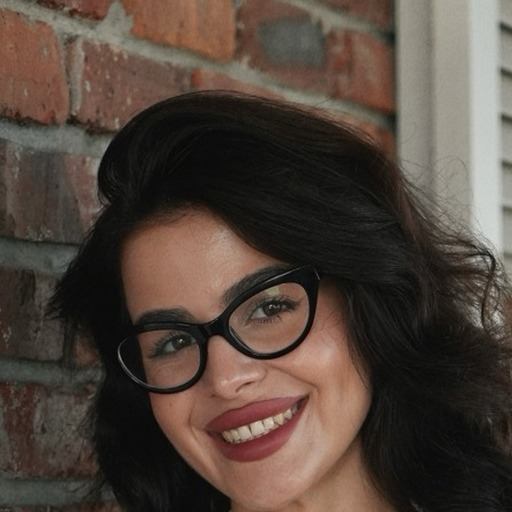
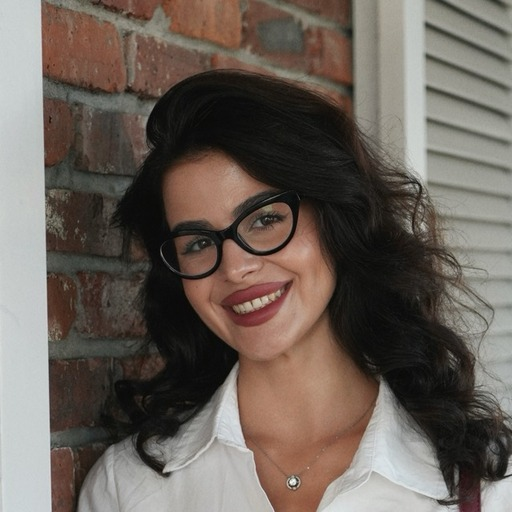
Клуб: на первом экране улыбка, рамка выше, заголовок больше не ложится на лицо

diff --git a/prodvizhenie-review.html b/prodvizhenie-review.html
@@ -138,9 +138,9 @@ nav .go:hover{color:var(--ink);background:var(--sun2)}
    Раньше был отрицательный отступ, из-за которого фото съедало низ букв. */
 .hero .bleed.big{line-height:.95}
 .hero .stage{position:relative;max-width:1220px;margin:clamp(10px,1.4vw,26px) auto 0;padding:0 22px}
-.hero .frame{position:relative;aspect-ratio:16/8.4;overflow:hidden;background:var(--ink);
+.hero .frame{position:relative;aspect-ratio:16/10.5;overflow:hidden;background:var(--ink);
   border-radius:4px;box-shadow:0 24px 70px rgba(23,19,19,.24)}
-.hero .frame img{width:100%;height:100%;object-fit:cover;object-position:52% 30%;animation:kb 22s ease-out forwards}
+.hero .frame img{width:100%;height:100%;object-fit:cover;object-position:60% 26%;animation:kb 22s ease-out forwards}
 @keyframes kb{from{transform:scale(1.1)}to{transform:none}}
 .hero .cap{position:absolute;left:0;right:0;bottom:0;padding:44px 44px 36px;color:#FDF7EE;z-index:3;
   background:linear-gradient(to top,rgba(20,16,16,.9),rgba(20,16,16,.34) 52%,transparent);
@@ -420,7 +420,7 @@ footer a{color:rgba(242,234,217,.72)}
 @media(max-width:1000px){
   section{padding:70px 0}
   .hero .below{grid-template-columns:1fr 1fr}
-  .hero .frame{aspect-ratio:4/3.2}
+  .hero .frame{aspect-ratio:4/3.4}
   .hero .cap{padding:32px 26px 26px}
   .notes,.res,.grs{grid-template-columns:1fr 1fr}
   .wl{grid-template-columns:1fr;gap:0}
@@ -459,7 +459,7 @@ footer a{color:rgba(242,234,217,.72)}
   .hero .top{margin-bottom:12px}
   .hero .cl{font-size:21px}
   .hero .frame{aspect-ratio:auto;display:block}
-  .hero .frame img{height:auto;aspect-ratio:1/.84;object-position:56% 22%;display:block}
+  .hero .frame img{height:auto;aspect-ratio:1/.92;object-position:57% 24%;display:block}
   /* Подложка под снимком была почти чёрная и весила слишком много.
      Теперь тёмно-синий из палитры сайта, тот же, что в шапке и в «Для кого». */
   .hero .cap{position:static;background:linear-gradient(180deg,#2A3A56 0%,var(--navy) 100%);

diff --git a/prodvizhenie.html b/prodvizhenie.html
@@ -136,9 +136,9 @@ nav .go:hover{color:var(--ink);background:var(--sun2)}
    Раньше был отрицательный отступ, из-за которого фото съедало низ букв. */
 .hero .bleed.big{line-height:.95}
 .hero .stage{position:relative;max-width:1220px;margin:clamp(10px,1.4vw,26px) auto 0;padding:0 22px}
-.hero .frame{position:relative;aspect-ratio:16/8.4;overflow:hidden;background:var(--ink);
+.hero .frame{position:relative;aspect-ratio:16/10.5;overflow:hidden;background:var(--ink);
   border-radius:4px;box-shadow:0 24px 70px rgba(23,19,19,.24)}
-.hero .frame img{width:100%;height:100%;object-fit:cover;object-position:52% 30%;animation:kb 22s ease-out forwards}
+.hero .frame img{width:100%;height:100%;object-fit:cover;object-position:60% 26%;animation:kb 22s ease-out forwards}
 @keyframes kb{from{transform:scale(1.1)}to{transform:none}}
 .hero .cap{position:absolute;left:0;right:0;bottom:0;padding:44px 44px 36px;color:#FDF7EE;z-index:3;
   background:linear-gradient(to top,rgba(20,16,16,.9),rgba(20,16,16,.34) 52%,transparent);
@@ -418,7 +418,7 @@ footer a{color:rgba(242,234,217,.72)}
 @media(max-width:1000px){
   section{padding:70px 0}
   .hero .below{grid-template-columns:1fr 1fr}
-  .hero .frame{aspect-ratio:4/3.2}
+  .hero .frame{aspect-ratio:4/3.4}
   .hero .cap{padding:32px 26px 26px}
   .notes,.res,.grs{grid-template-columns:1fr 1fr}
   .wl{grid-template-columns:1fr;gap:0}
@@ -457,7 +457,7 @@ footer a{color:rgba(242,234,217,.72)}
   .hero .top{margin-bottom:12px}
   .hero .cl{font-size:21px}
   .hero .frame{aspect-ratio:auto;display:block}
-  .hero .frame img{height:auto;aspect-ratio:1/.84;object-position:56% 22%;display:block}
+  .hero .frame img{height:auto;aspect-ratio:1/.92;object-position:57% 24%;display:block}
   /* Подложка под снимком была почти чёрная и весила слишком много.
      Теперь тёмно-синий из палитры сайта, тот же, что в шапке и в «Для кого». */
   .hero .cap{position:static;background:linear-gradient(180deg,#2A3A56 0%,var(--navy) 100%);
